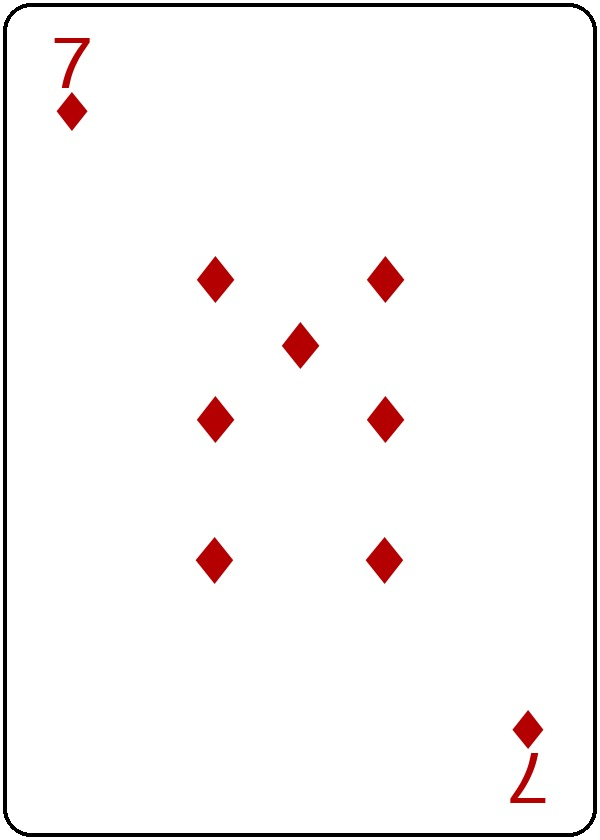
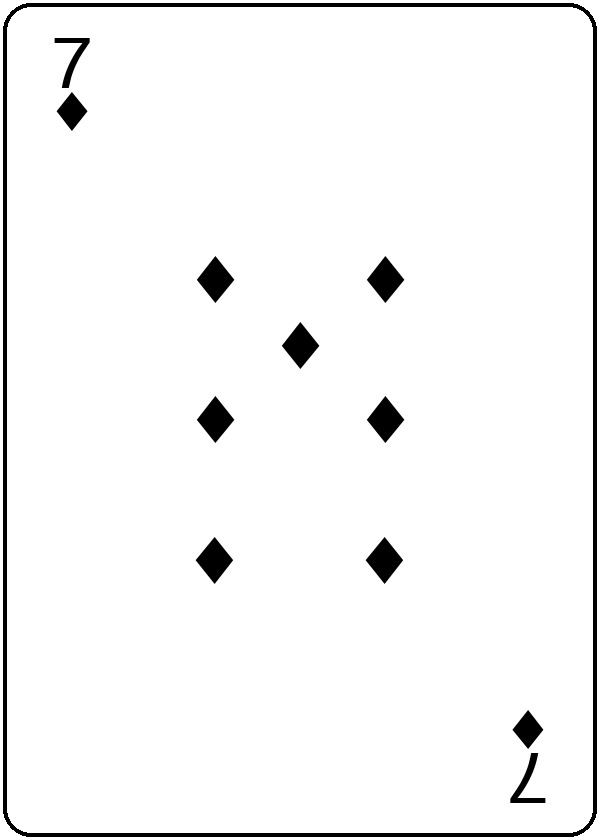
Fix playing card generation: all-black suits, BICUBIC pip rotation
- Change hearts/diamonds from red (180,0,0) to black — ED047TC1 panel is
  4-bit grayscale, red dithers to mid-grey and reads as washed out
- Fix inverted pip anti-aliasing: rotate(180) previously used nearest-
  neighbour, stripping ~60 edge pixels and making inverted pips read
  lighter than upright ones; now uses BICUBIC resampling
- Add CC0-1.0 SPDX header and design rationale to script docstring
- Regenerate all 52 JPEGs

diff --git a/scripts/generate_playing_cards.py b/scripts/generate_playing_cards.py
@@ -6,14 +6,25 @@ Output : assets/images/playing_cards/card_{rank}{suit}.jpg
 Ranks  : A 2 3 4 5 6 7 8 9 T J Q K   (T = Ten)
 Suits  : S H D C
 
-Original CC0 works — no external art dependency.
+SPDX-License-Identifier: CC0-1.0
+These images are original programmatic works. No existing card art was
+incorporated or derived. The output files are released to the public domain
+under the Creative Commons Zero v1.0 Universal (CC0-1.0) dedication.
+
 Requires: Pillow  (pip install Pillow)
 System fonts (macOS): /System/Library/Fonts/Helvetica.ttc
                       /System/Library/Fonts/Symbol.ttf
+
+Design notes:
+  - All suits rendered black for 4-bit grayscale e-ink panels (no color).
+    Hearts/diamonds are distinguishable from spades/clubs by shape alone,
+    matching Piatnik-style tournament card convention.
+  - Inverted (bottom-half) pips rotated with BICUBIC resampling to preserve
+    anti-aliased edges, matching visual weight of upright pips.
 """
 
 from PIL import Image, ImageDraw, ImageFont
-import os, sys
+import os
 
 # ── dimensions ────────────────────────────────────────────────────────
 W, H   = 600, 840
@@ -23,7 +34,7 @@ RANK_FONT = '/System/Library/Fonts/Helvetica.ttc'
 SUIT_FONT = '/System/Library/Fonts/Symbol.ttf'
 
 SUIT_CHAR  = {'S': '♠', 'H': '♥', 'D': '♦', 'C': '♣'}
-SUIT_COLOR = {'S': (0, 0, 0), 'H': (180, 0, 0), 'D': (180, 0, 0), 'C': (0, 0, 0)}
+SUIT_COLOR = {'S': (0, 0, 0), 'H': (0, 0, 0), 'D': (0, 0, 0), 'C': (0, 0, 0)}
 RANK_DISPLAY = {'T': '10'}   # show "10" in corners; filename rank stays "T"
 
 RANKS = ['A', '2', '3', '4', '5', '6', '7', '8', '9', 'T', 'J', 'Q', 'K']
@@ -85,10 +96,10 @@ def draw_corner_block(img: Image.Image, rank: str, suit_char: str,
 
     tmp = Image.new('RGBA', (bw, bh), (255, 255, 255, 0))
     td  = ImageDraw.Draw(tmp)
-    td.text((bw // 2 - rw // 2 - rox, 8 - roy),           display_rank, font=rf, fill=color + (255,))
-    td.text((bw // 2 - sw // 2 - sox, 8 + rh + gap - soy), suit_char,   font=sf, fill=color + (255,))
+    td.text((bw // 2 - rw // 2 - rox, 8 - roy),            display_rank, font=rf, fill=color + (255,))
+    td.text((bw // 2 - sw // 2 - sox, 8 + rh + gap - soy), suit_char,    font=sf, fill=color + (255,))
     if flip:
-        tmp = tmp.rotate(180)
+        tmp = tmp.rotate(180, resample=Image.Resampling.BICUBIC)
     img.paste(tmp, (cx - bw // 2, cy - bh // 2), tmp)
 
 
@@ -98,14 +109,14 @@ def draw_pip(img: Image.Image, cx: float, cy: float, size: int,
     font = suit_font(size)
     w, h, ox, oy = text_dims(font, suit_char)
     if inverted:
+        # BICUBIC resampling preserves anti-aliased edges through the 180° rotation,
+        # matching the visual weight of upright pips (nearest-neighbour drops them).
         tmp = Image.new('RGBA', (w + 4, h + 4), (255, 255, 255, 0))
-        td  = ImageDraw.Draw(tmp)
-        td.text((2 - ox, 2 - oy), suit_char, font=font, fill=color + (255,))
-        tmp = tmp.rotate(180)
+        ImageDraw.Draw(tmp).text((2 - ox, 2 - oy), suit_char, font=font, fill=color + (255,))
+        tmp = tmp.rotate(180, resample=Image.Resampling.BICUBIC)
         img.paste(tmp, (int(cx - w / 2 - 2), int(cy - h / 2 - 2)), tmp)
     else:
-        draw = ImageDraw.Draw(img)
-        draw.text((cx - w / 2 - ox, cy - h / 2 - oy), suit_char, font=font, fill=color)
+        ImageDraw.Draw(img).text((cx - w / 2 - ox, cy - h / 2 - oy), suit_char, font=font, fill=color)
 
 
 # ── card generator ────────────────────────────────────────────────────
@@ -150,8 +161,7 @@ def generate_card(rank: str, suit: str) -> Image.Image:
 
 def main() -> None:
     script_dir = os.path.dirname(os.path.abspath(__file__))
-    out_dir    = os.path.join(script_dir, '..', 'assets', 'images', 'playing_cards')
-    out_dir    = os.path.normpath(out_dir)
+    out_dir    = os.path.normpath(os.path.join(script_dir, '..', 'assets', 'images', 'playing_cards'))
     os.makedirs(out_dir, exist_ok=True)
 
     total = len(RANKS) * len(SUITS)
